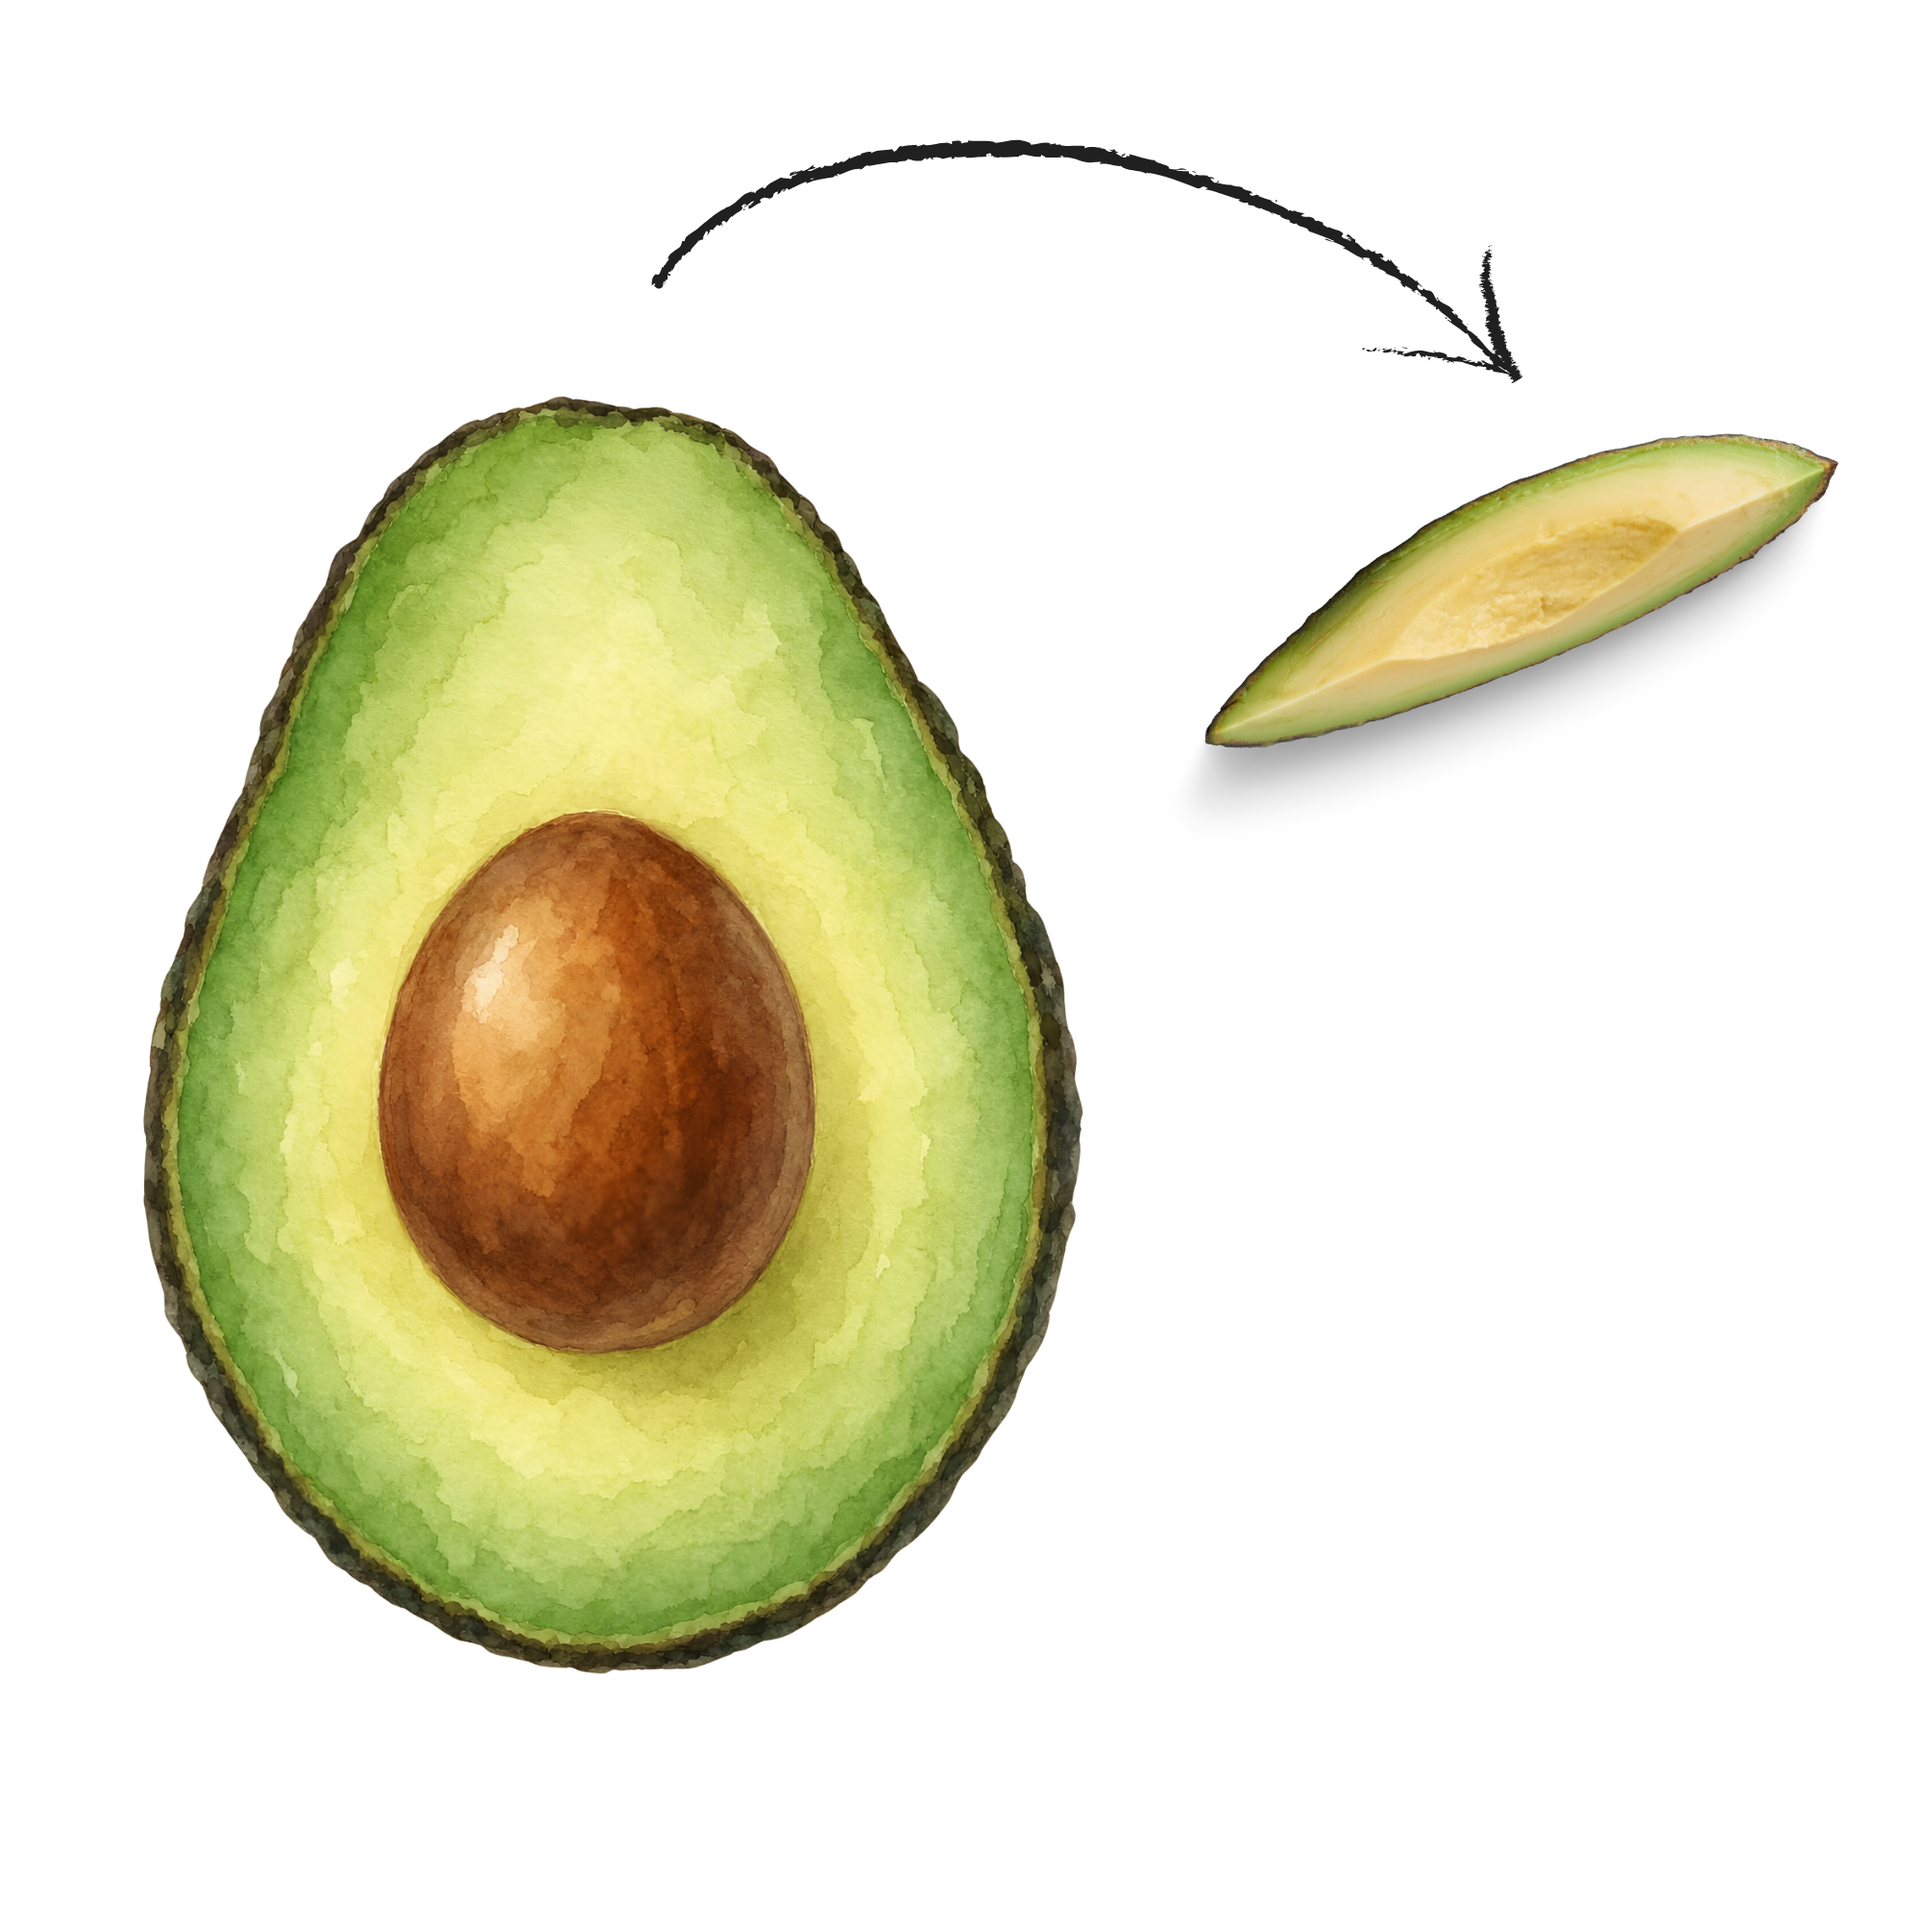
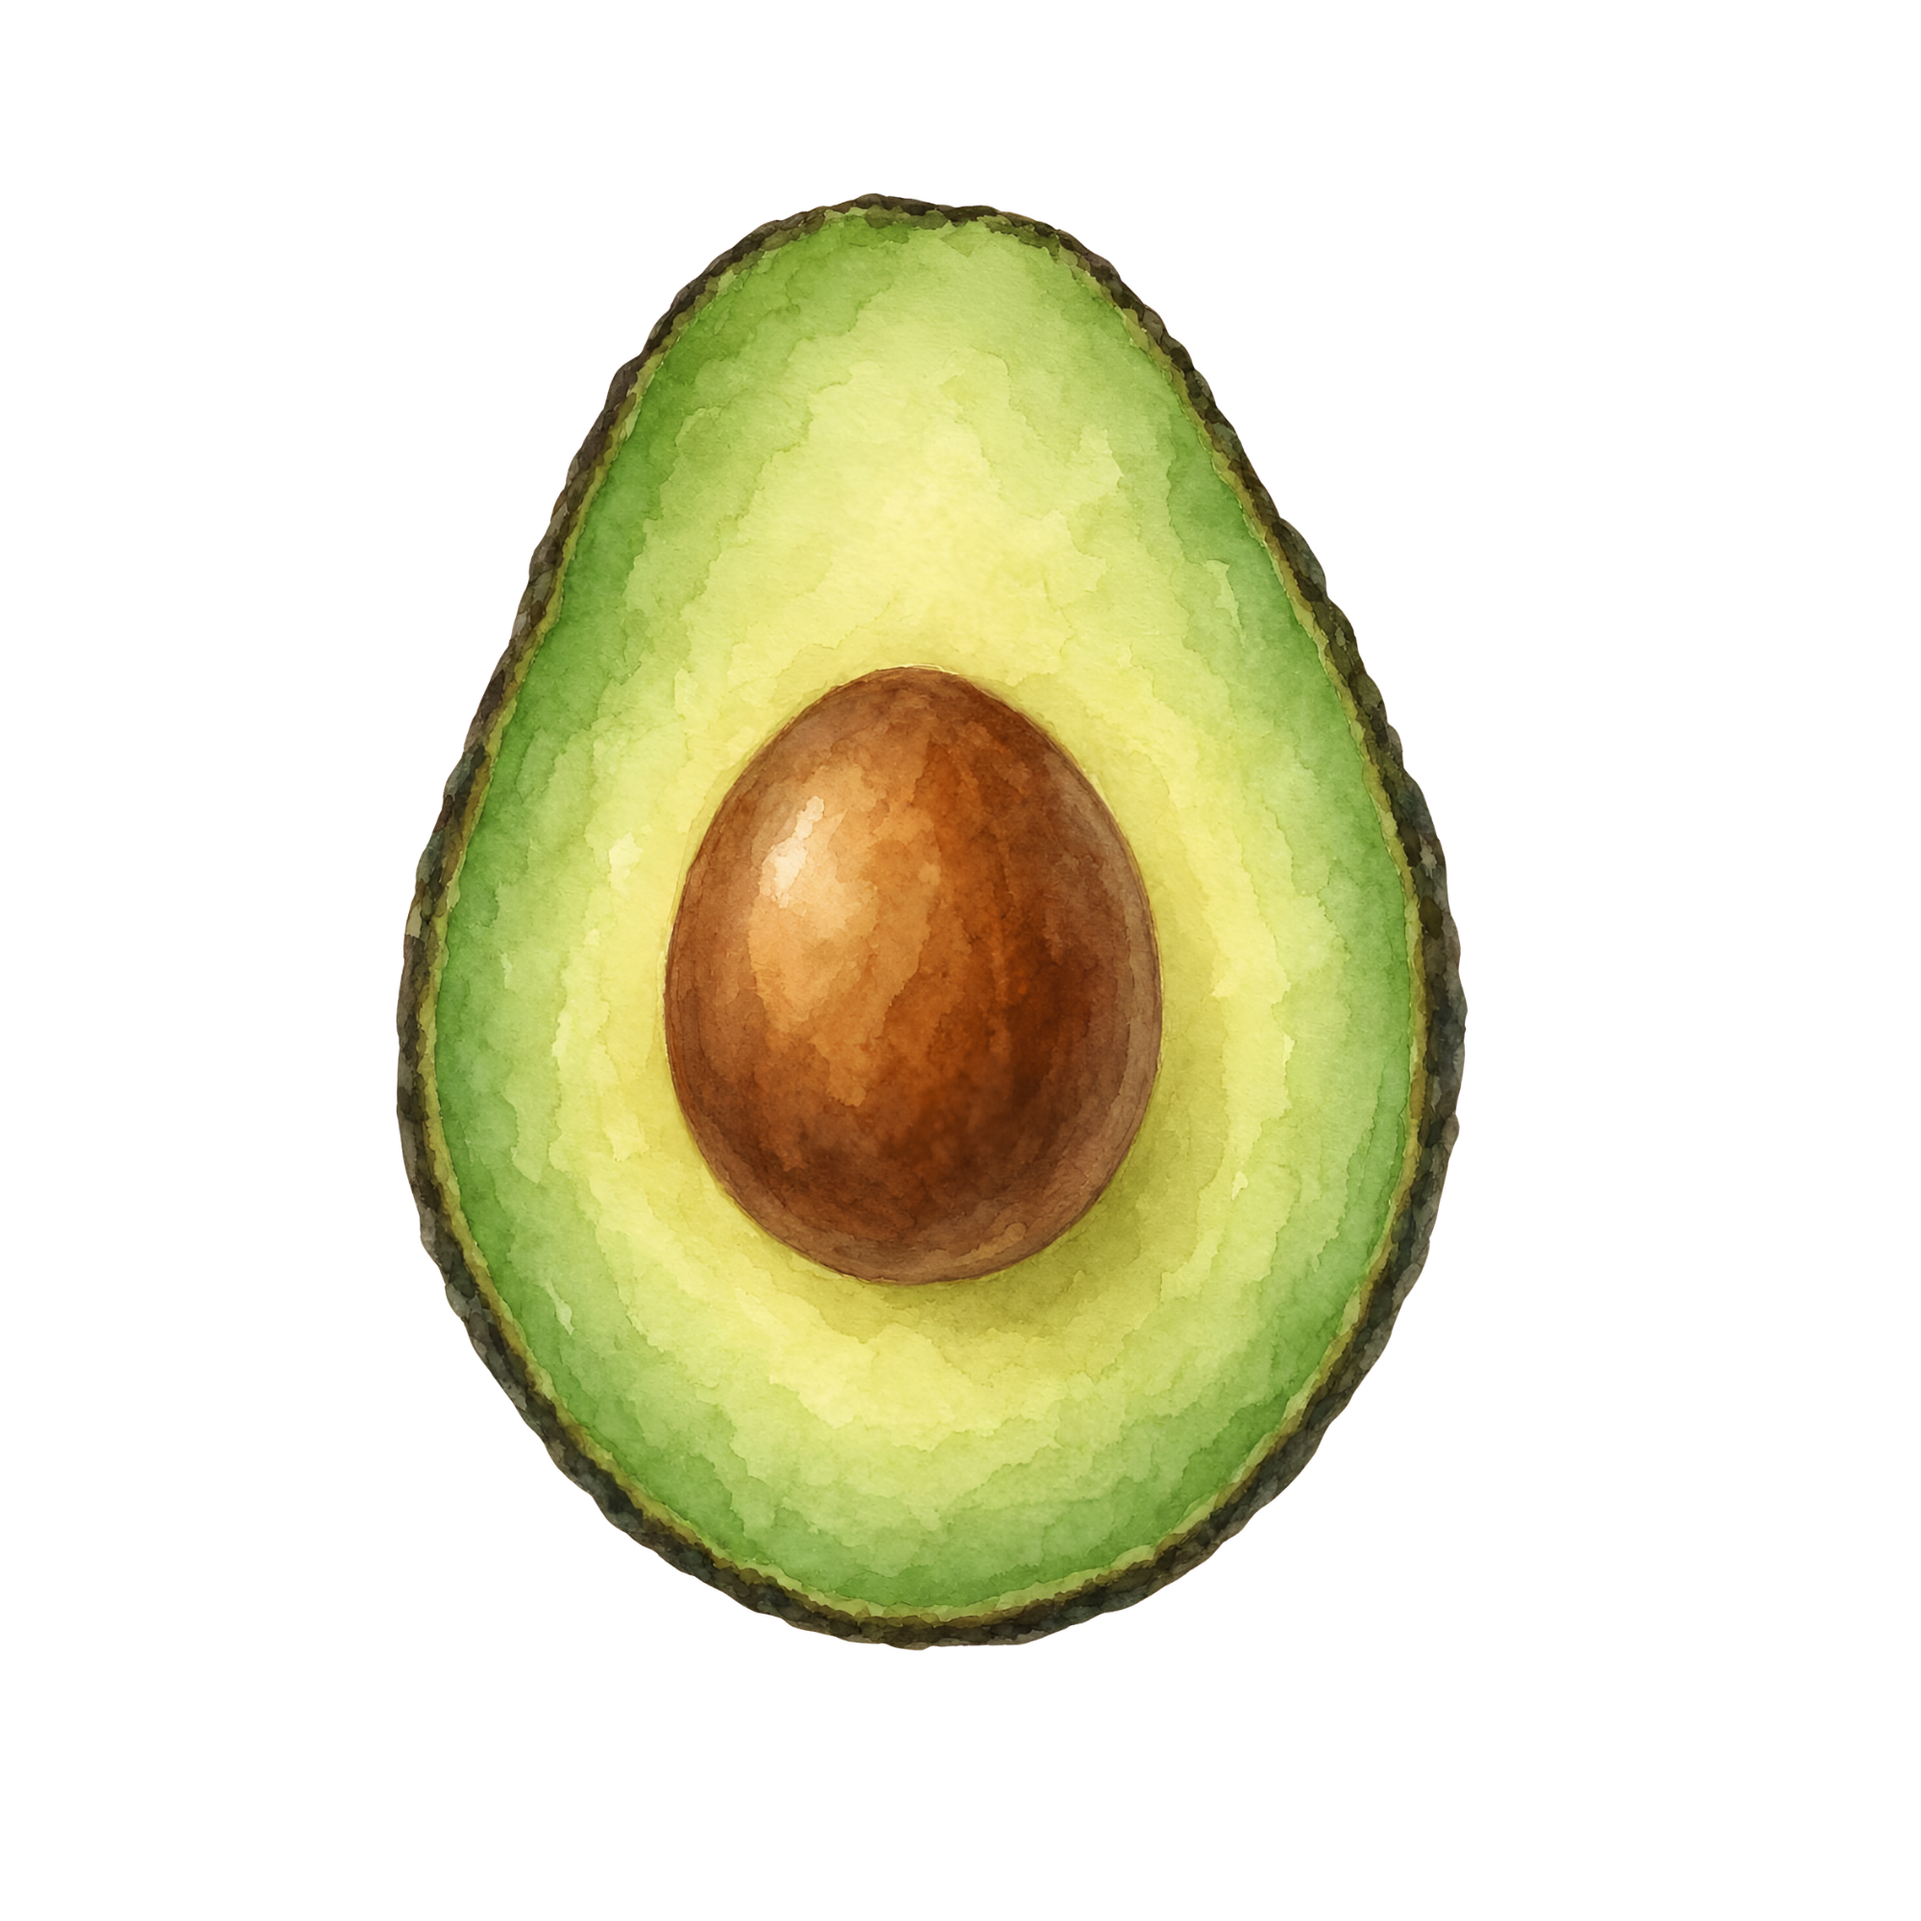
BildUpload Pronleme halbgelöst

diff --git a/src/app/shared/backend.ts b/src/app/shared/backend.ts
@@ -27,18 +27,29 @@ export class Backend {
 
     return lebensmittel;
   }
-  async create(lebensmittel: Lebensmittel): Promise<Lebensmittel> {
-    let response = await fetch(this.apiURL + '/', {
-      method: 'POST',
-      headers: {
-        'Content-Type': 'application/json'
-      },
-      body: JSON.stringify(lebensmittel)
-    });
+  async create(lebensmittel: Lebensmittel, bild?: File): Promise<Lebensmittel> {
+  const formData = new FormData();
 
-    let neuesLebensmittel = await response.json();
-    console.log('Neues Lebensmittel erfolgreich erstellt:', neuesLebensmittel);
+  formData.append('name', lebensmittel.name);
+  formData.append('kategorie', lebensmittel.kategorie);
+  formData.append('altersempfehlung', lebensmittel.altersempfehlung);
+  formData.append('allergen', lebensmittel.allergen);
+  formData.append('beschreibung', lebensmittel.beschreibung || '');
 
-    return neuesLebensmittel;
+  if (bild) {
+    formData.append('bild', bild);
   }
+  console.log('Bild in FormData:', formData.get('bild'));
+
+  let response = await fetch(this.apiURL + '/', {
+    method: 'POST',
+    body: formData // formData kann text und Dateien uebertragen JSON nur text, zahlen usw.
+  });
+
+  let neuesLebensmittel = await response.json();
+
+  console.log('Neues Lebensmittel erfolgreich erstellt:', neuesLebensmittel);
+
+  return neuesLebensmittel;
+}
 }

diff --git a/src/app/lebensmittel-form/lebensmittel-form.ts b/src/app/lebensmittel-form/lebensmittel-form.ts
@@ -19,19 +19,26 @@ export class LebensmittelForm {
       bild: ''
     };
 
+   
+
   constructor( private backend: Backend){} 
   
+  ausgewaehltesBild?: File;
+
   onBildAusgewaehlt(event: Event) {
     const input = event.target as HTMLInputElement;
 
     if (input.files && input.files.length > 0) { 
         const datei = input.files[0]; // nur die als erstes ausgewählte datei 
+        this.ausgewaehltesBild = datei;
 
         console.log('Ausgewählte Datei:', datei);
     }
 }
   onSubmit() {
-    this.backend.create(this.lebensmittel).then(() => {
+    console.log('Ausgewähltes Bild beim Absenden:', this.ausgewaehltesBild);
+    
+    this.backend.create(this.lebensmittel, this.ausgewaehltesBild).then(() => {
       console.log('Neuer Lebensmittel wurde hinzugefügt', this.lebensmittel);
      
     });

diff --git a/src/app/lebensmittel-form/lebensmittel-form.html b/src/app/lebensmittel-form/lebensmittel-form.html
@@ -58,9 +58,8 @@
                 </div>
 
                 <div class="mb-3">
-                    <label for="bild" class="form-label">Bild</label>
-                    <input type="file" id="bild" name="bild" class="form-control" placeholder="z. B. assets/avokado.png"
-                        [(ngModel)]="lebensmittel.bild">
+                    <label for="bild" class="form-label"></label>
+                    <input type="file" id="bild" name="bild" accept="image/*" (change)="onBildAusgewaehlt($event)">
                 </div>
                 <button type="submit" class="btn formularButton" (click)="onSubmit()">
                     Lebensmittel hinzufügen
